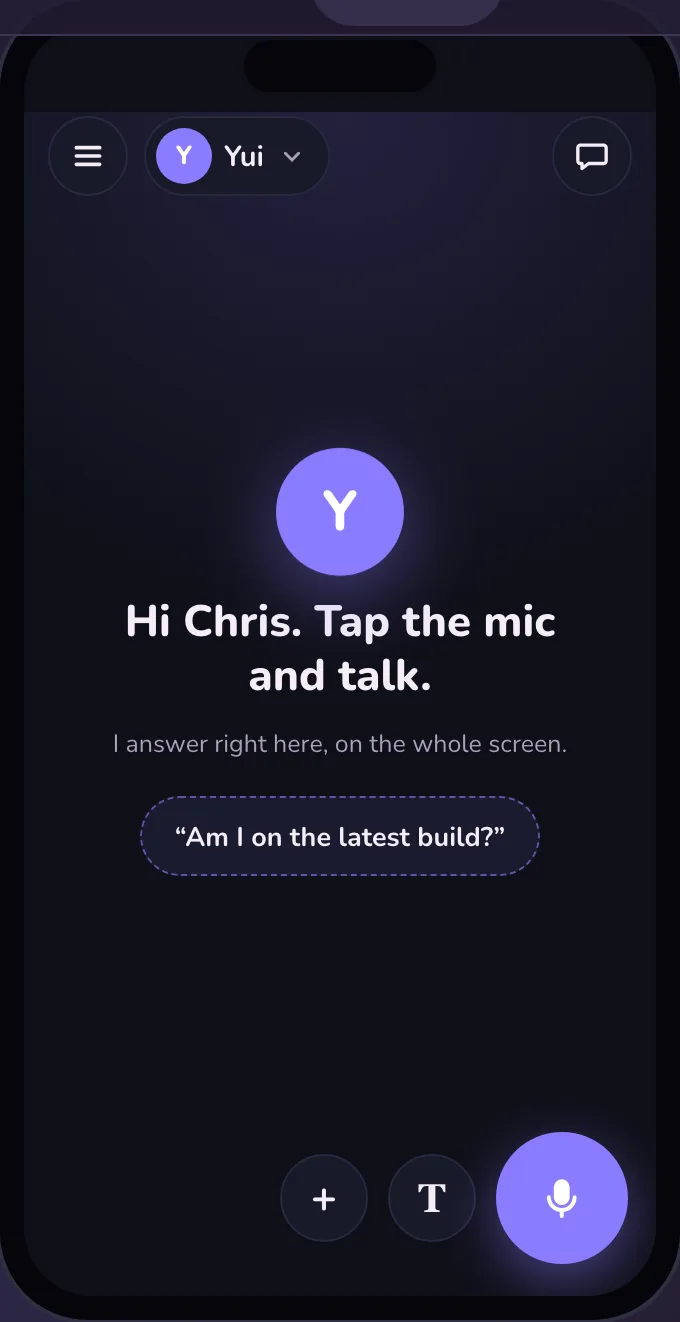
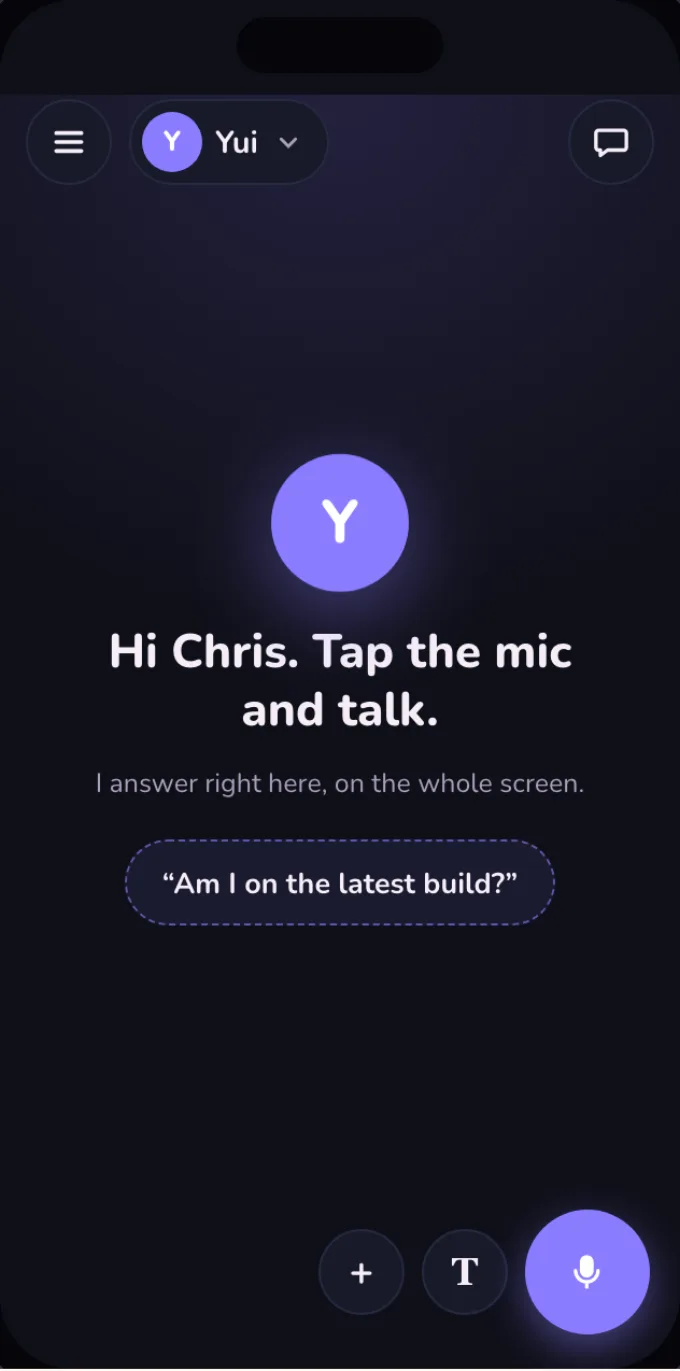
Stage first mock: mic, T and + a notch smaller (YUI-119)
Chris's first look: the bottom bar read heavy. Mic 66 to 58, T and + 44 to 40
with the hit area kept at 48, the drawn mic 84 to 72.

diff --git a/site/app/playground/stagefirst.css b/site/app/playground/stagefirst.css
@@ -74,14 +74,15 @@
 .sf-bottom { flex: none; display: flex; align-items: center; justify-content: space-between; padding: 8px 14px 16px; z-index: 2; }
 .sf-left { display: flex; align-items: center; min-height: 44px; }
 .sf-nav { display: flex; gap: 8px; }
-.sf-inputs { display: flex; align-items: center; gap: 10px; }
-.sf-small { width: 44px; height: 44px; border-radius: 50%; border: 1px solid var(--sf-line); background: var(--sf-card); color: inherit; font: inherit; font-size: 22px; font-weight: 700; display: grid; place-items: center; cursor: pointer; line-height: 1; flex: none; }
+.sf-inputs { display: flex; align-items: center; gap: 8px; }
+.sf-small { width: 40px; height: 40px; border-radius: 50%; border: 1px solid var(--sf-line); background: var(--sf-card); color: inherit; font: inherit; font-size: 19px; font-weight: 700; display: grid; place-items: center; cursor: pointer; line-height: 1; flex: none; position: relative; }
+.sf-small::before, .sf-mic::before { content: ""; position: absolute; inset: -4px; }
 .sf-small:disabled { opacity: .35; cursor: default; }
 .sf-small.acc { background: var(--sf); border-color: var(--sf); color: #fff; }
-.sf-t { font-family: Georgia, "Times New Roman", serif; font-size: 20px; }
+.sf-t { font-family: Georgia, "Times New Roman", serif; font-size: 18px; }
 .sf-mic { width: 52px; height: 52px; border-radius: 50%; border: 0; background: var(--sf); display: grid; place-items: center; cursor: pointer; position: relative; flex: none; color: #fff; }
-.sf-mic.big { width: 66px; height: 66px; box-shadow: 0 8px 26px color-mix(in srgb, var(--sf) 45%, transparent); }
-.sf-mic svg { width: 44%; height: 44%; fill: currentColor; stroke: currentColor; }
+.sf-mic.big { width: 58px; height: 58px; box-shadow: 0 6px 18px color-mix(in srgb, var(--sf) 45%, transparent); }
+.sf-mic svg { width: 42%; height: 42%; fill: currentColor; stroke: currentColor; }
 .sf-mic.live::after { content: ""; position: absolute; inset: -6px; border-radius: 50%; border: 3px solid var(--sf); animation: sf-ring 1.2s ease-out infinite; }
 
 /* Typing: the field opens only when asked for. */
@@ -133,7 +134,7 @@
 .sf-draw-said { font-size: 19px; font-weight: 800; min-height: 26px; }
 .sf-draw-bar { display: flex; justify-content: flex-end; align-items: center; gap: 10px; }
 .sf-small.ghost { opacity: .55; }
-.sf-mic.huge { width: 84px; height: 84px; }
+.sf-mic.huge { width: 72px; height: 72px; }
 .sf-note { font-size: 12px; font-weight: 800; color: var(--sf); }
 .sf-note.r { text-align: right; }
 .sf-note.l { text-align: left; }
